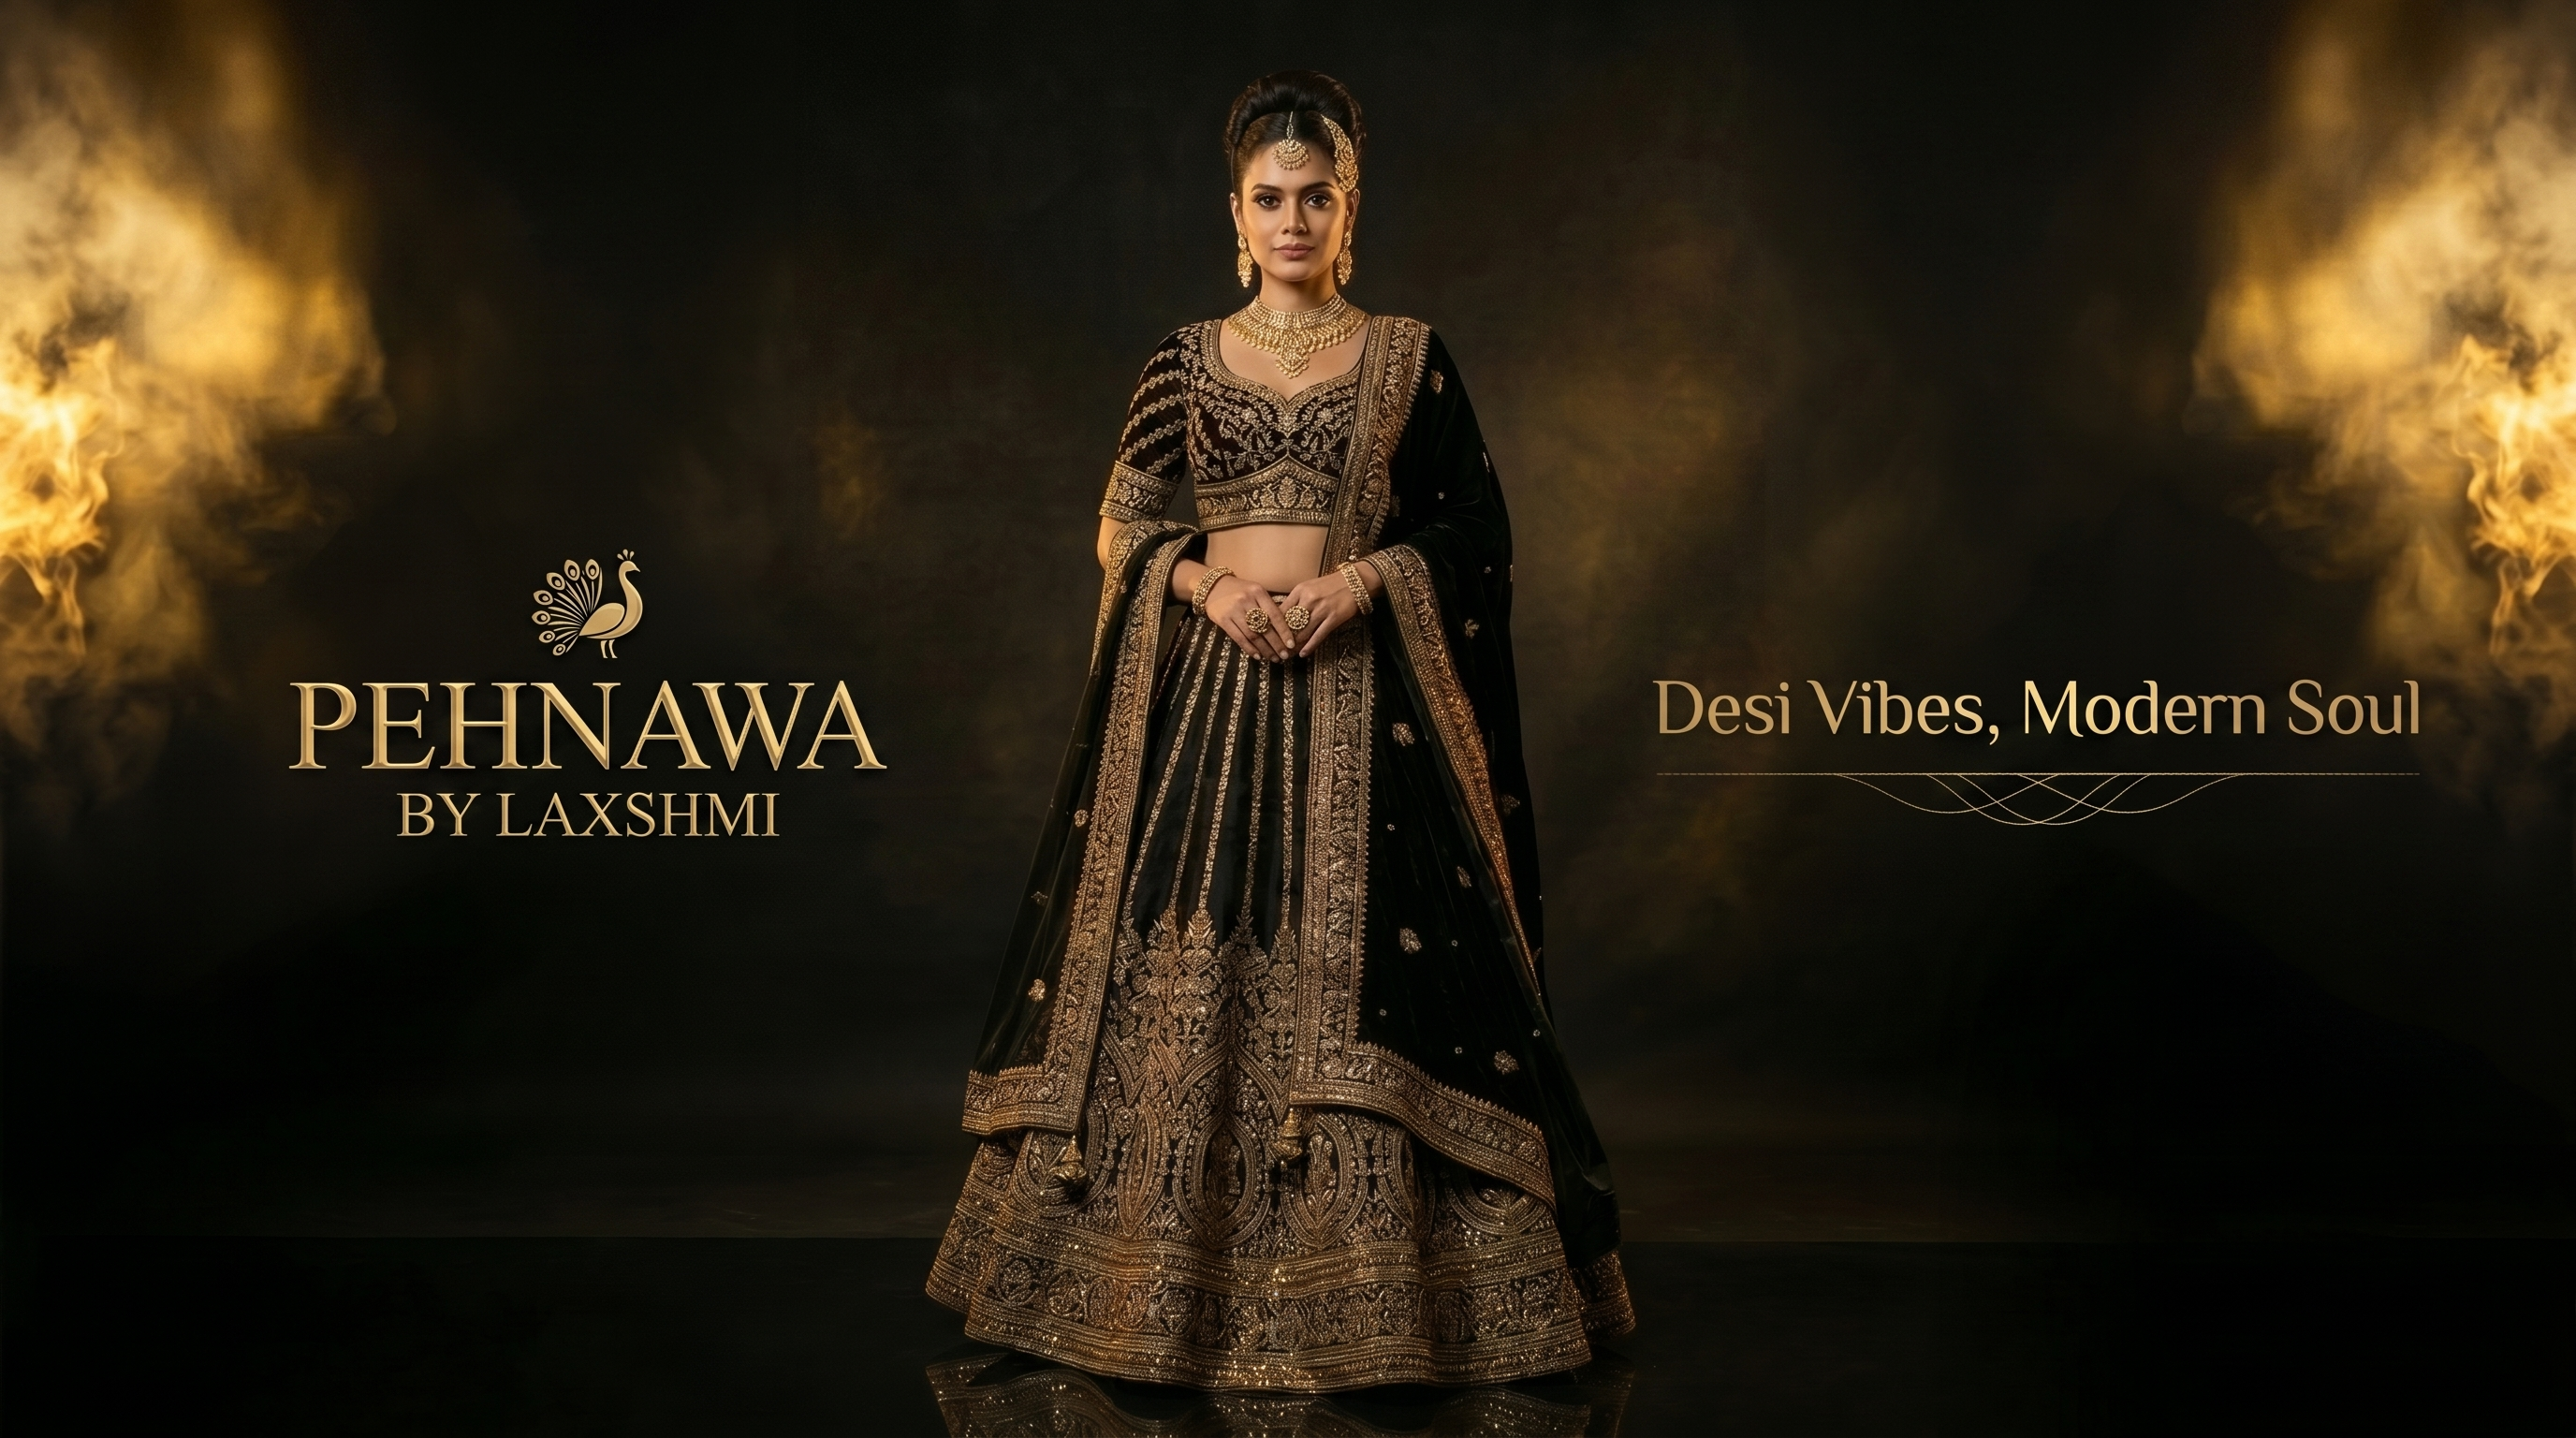
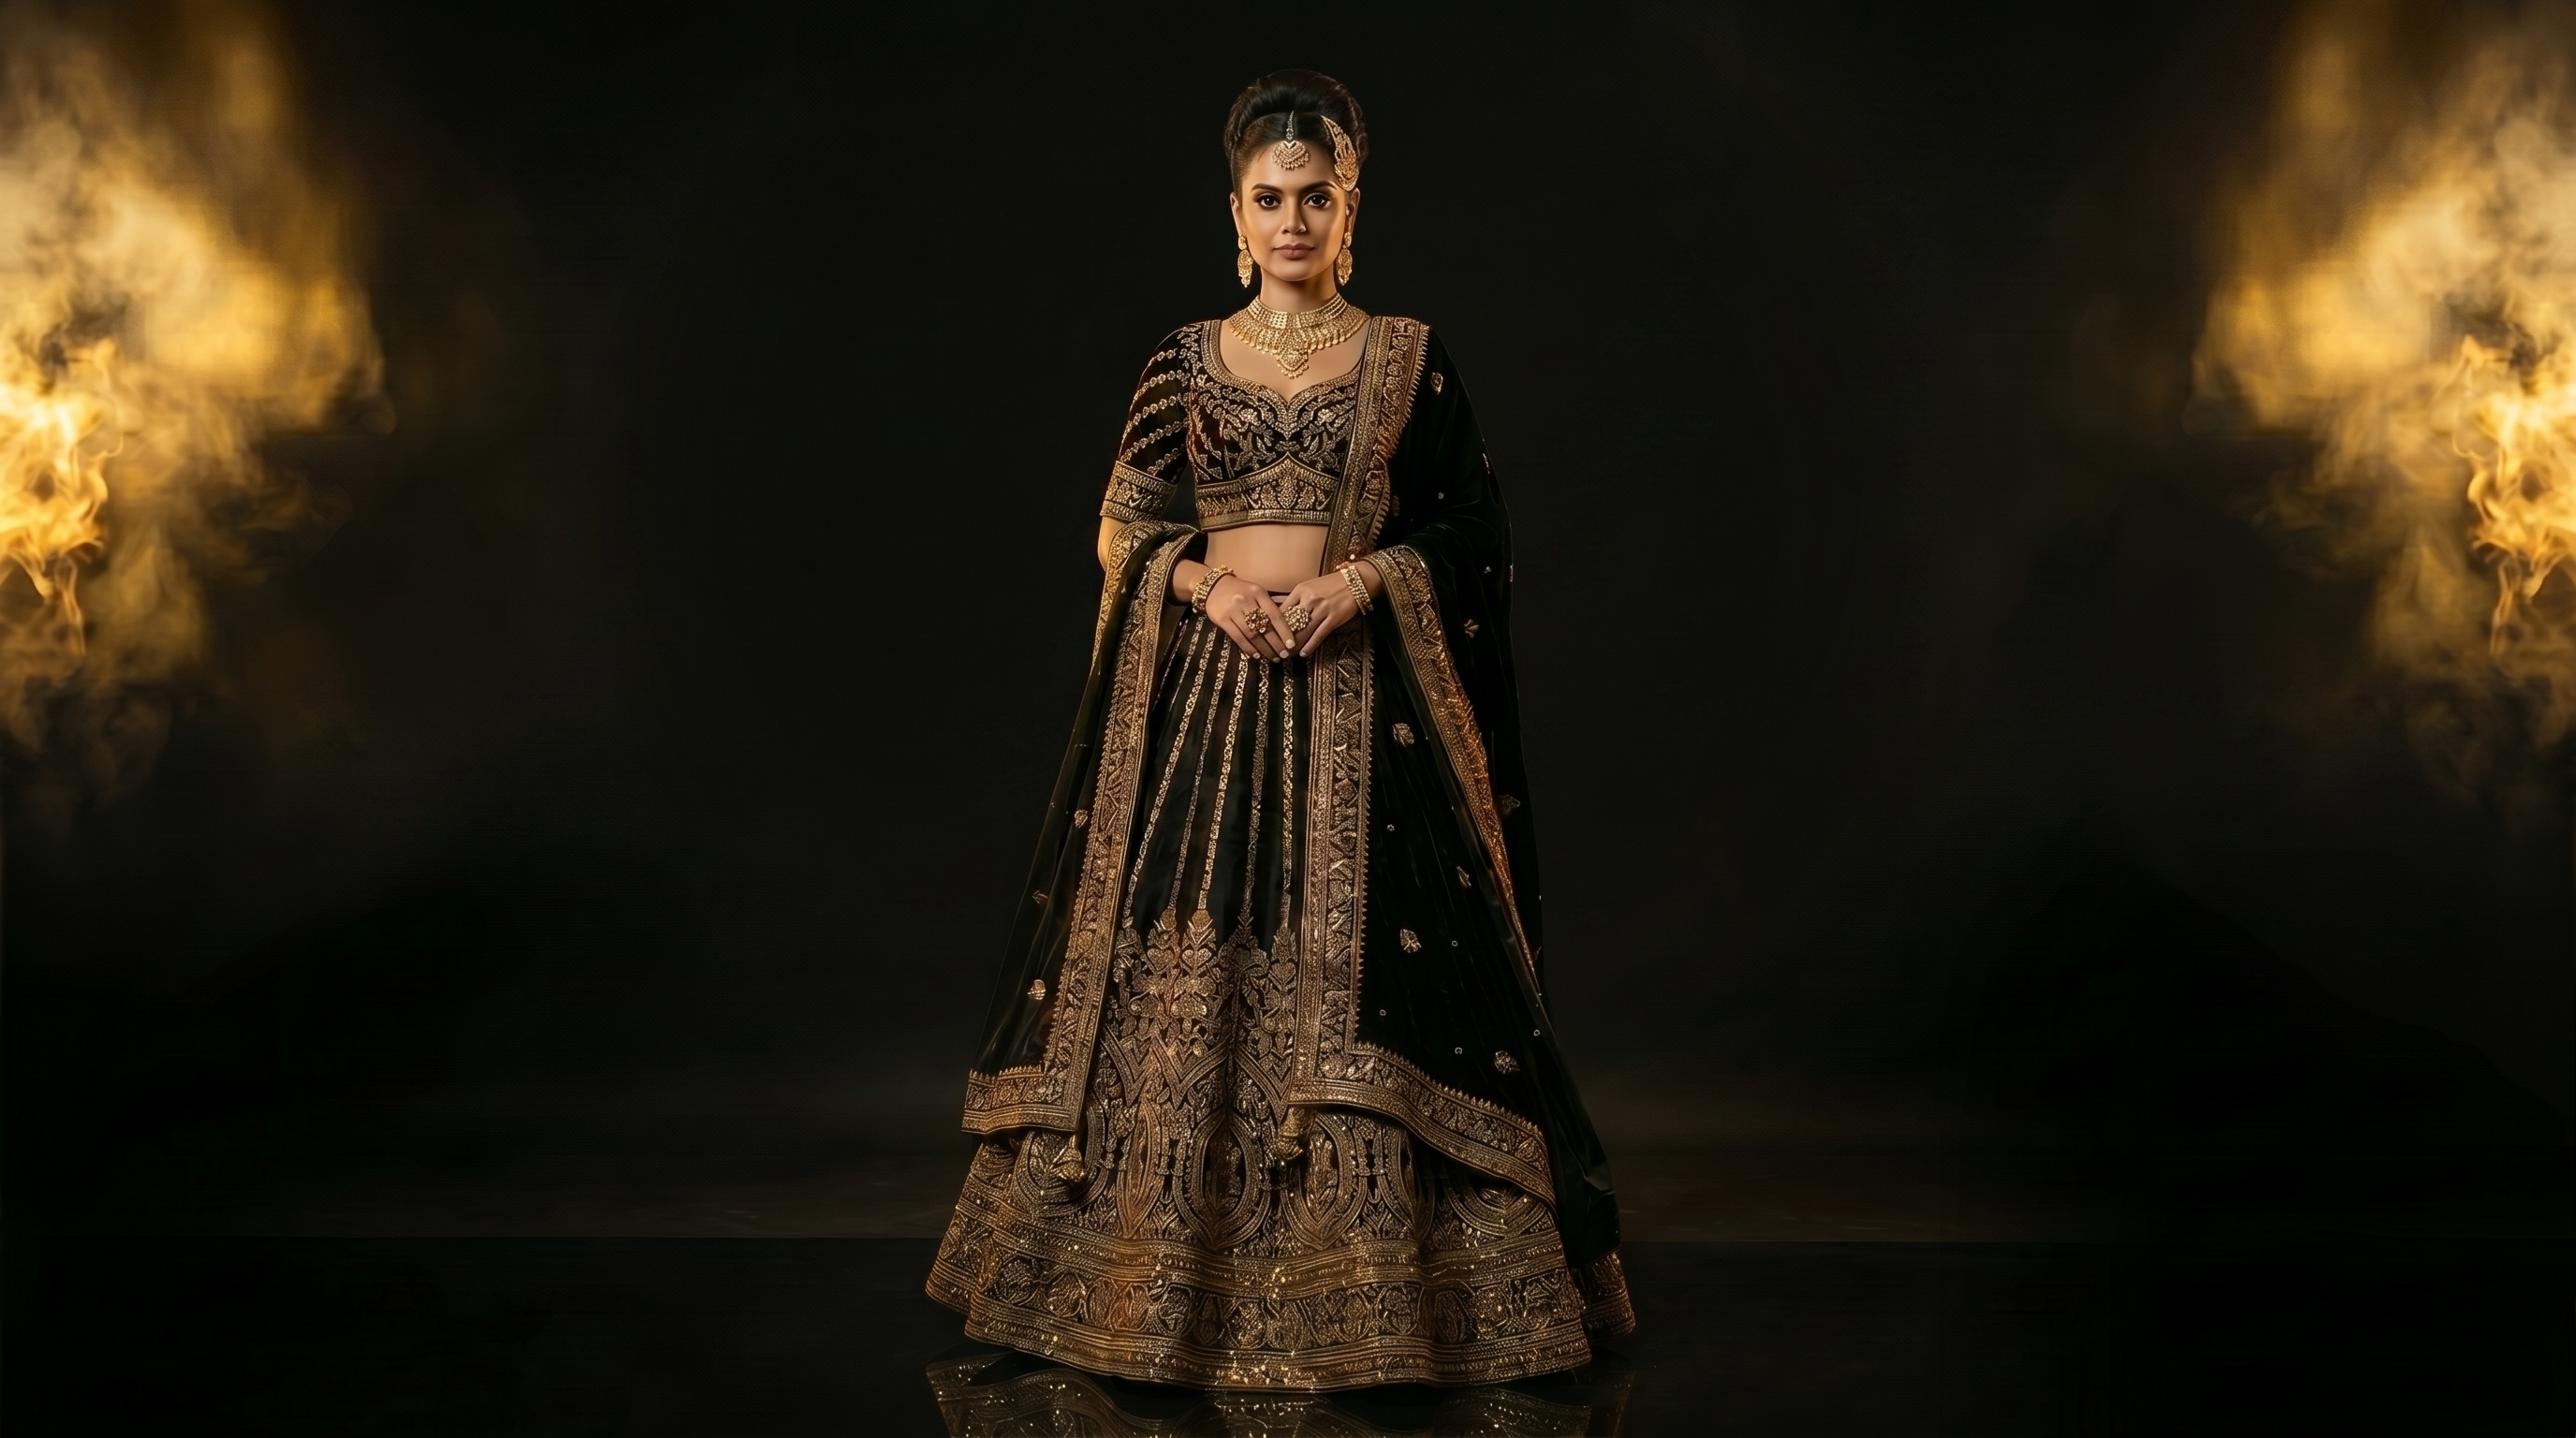
Changes

Changed region(s): [[0.25, 0.0938, 0.9375, 1.0], [0.0938, 0.375, 0.3438, 0.5938]]

diff --git a/src/app/HomepageClient.js b/src/app/HomepageClient.js
@@ -100,7 +100,7 @@ export default function Homepage() {
             <Link href="/everyday" className="group cursor-pointer flex flex-col">
               <div className="relative aspect-[3/4] overflow-hidden bg-[#1F1F1F] mb-6 border border-white/5 cinematic-zoom">
                 <Image
-                  src="https://lh3.googleusercontent.com/aida-public/AB6AXuA0hgBNe_AXnYCDbFO5_41ix7K45ebWrSBnTzEyhIZHGL8Sv-zcwsraGiG04ahhwJfiTuikxJ4pLYPbwP56j4o06Exg-rs5G-X7QmxLifW5mP9bVm3IqHqVC872UOKFckvQPqgbXCjCuPd2xzw836nyHmL_m1JEzvVJPgjhjYboW5n79vcFkl1qvA8yzhUrYoOrMEqN3zddZg5FmNinHagGis0HDBqpUSkcjcKWZK-ZJ9TROkQyVjD2GPiKfLpzH5fOE8hLcf6BTPM"
+                  src="/pic6.jpeg"
                   alt="Professional Ethnic Collection"
                   fill
                   className="object-cover grayscale group-hover:grayscale-0 transition-all duration-[1000ms]"